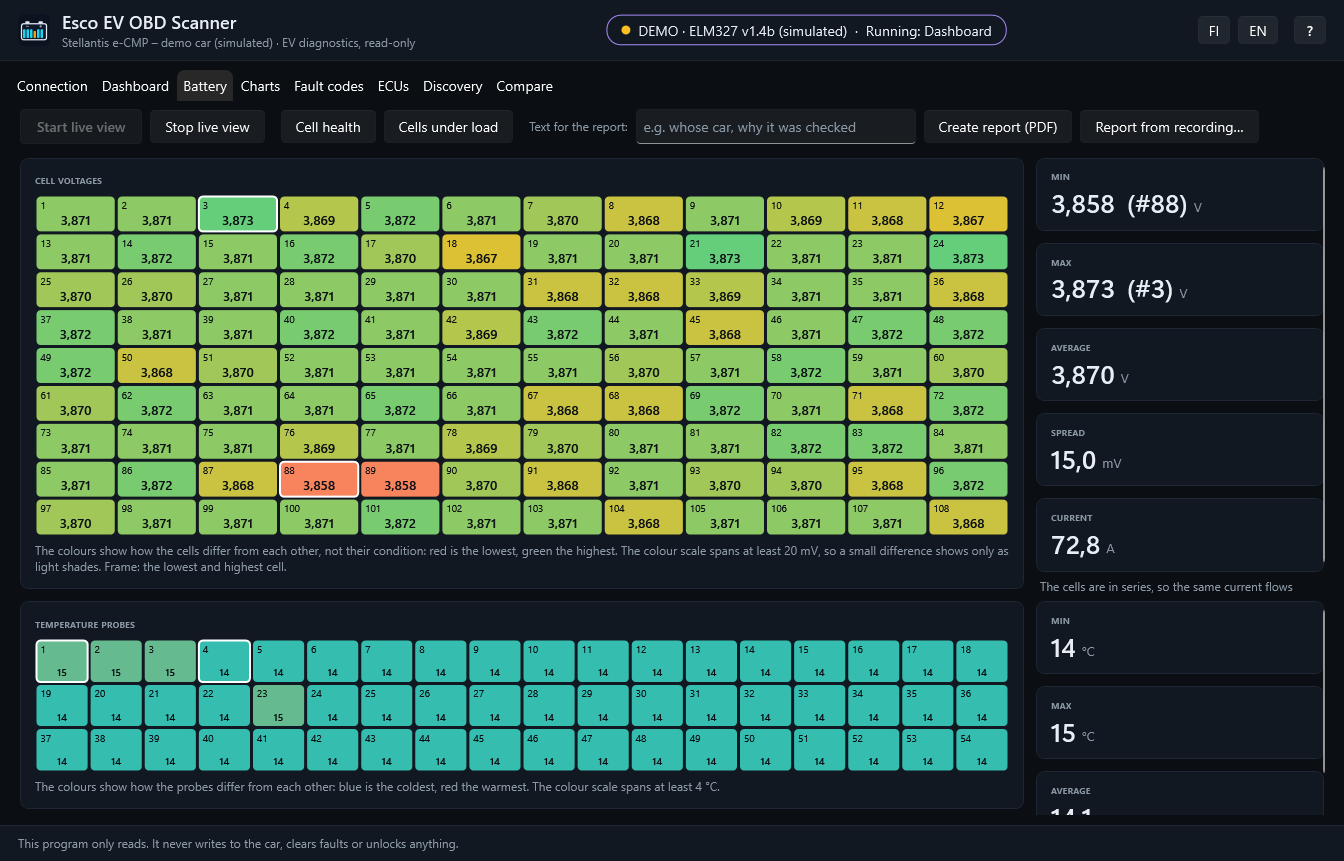
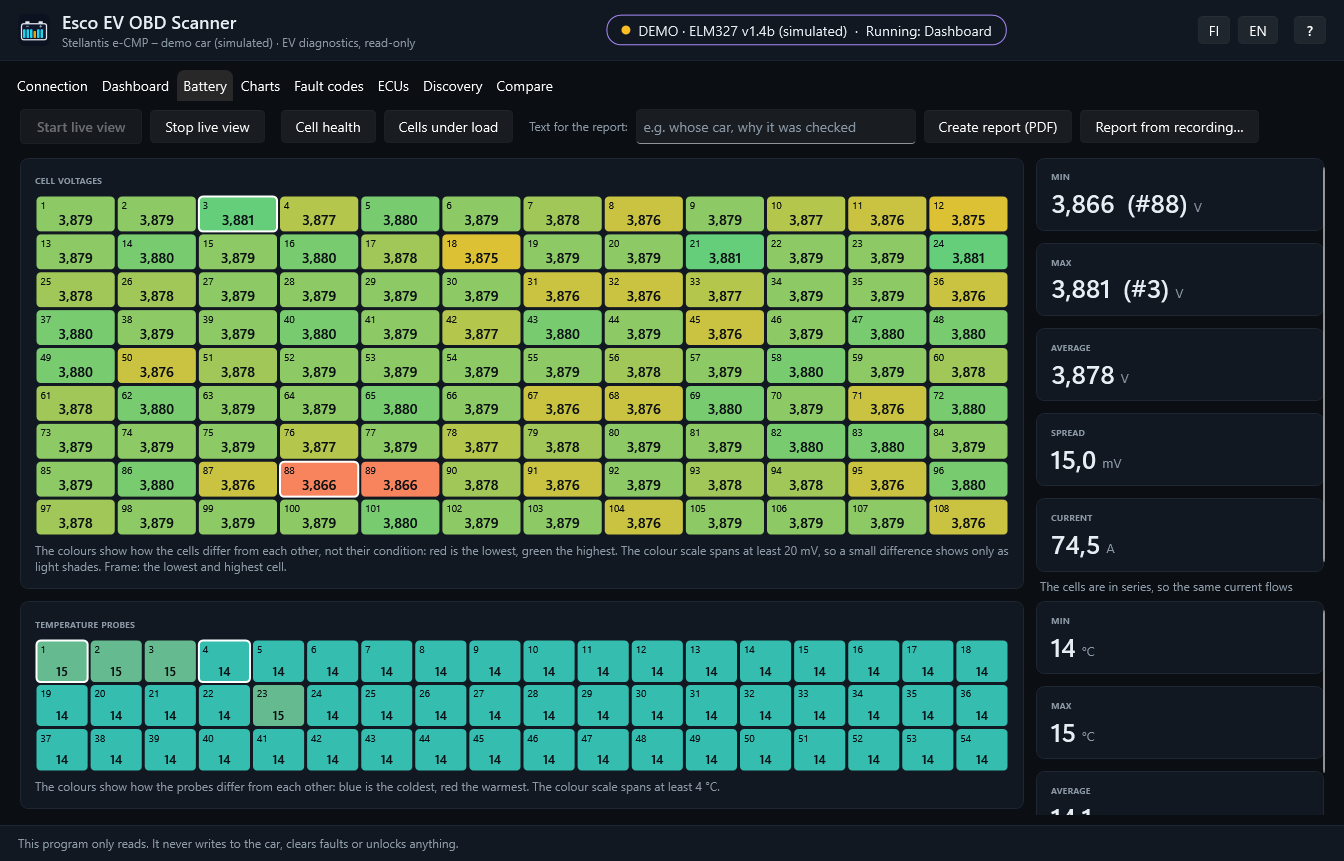
README: one dashboard screenshot, retaken battery screenshots
The dashboard now fits in one screenshot, so the second one of its
lower part is gone; the self-test fills in a price and a day taken into
use before taking it, so the electricity estimate shows figures.
The battery, cell health and cells under load screenshots are retaken
with the larger text of the cell grids.

diff --git a/EscoEvObdScanner.App/SelfTest.cs b/EscoEvObdScanner.App/SelfTest.cs
@@ -131,12 +131,13 @@ namespace EscoEvObdScanner.App
                 vm.Live.ShowCellHealth = true;
                 await Shot(2, "battery_health_en", 800);
                 vm.Live.ShowCellHealth = false;
-                await Shot(1, "dashboard_live_en", 800);
-                // the lower part with a price and a day taken into use, so the electricity estimate is filled in
+                // with a price and a day taken into use, so the electricity estimate is filled in
                 string shotPrice = vm.Live.PriceText, shotInUse = vm.Live.InUseText, shotInUseKm = vm.Live.InUseKmText;
                 vm.Live.PriceText = "16";
                 vm.Live.InUseText = "2024-12-04";
                 vm.Live.InUseKmText = "0";
+                await Shot(1, "dashboard_live_en", 800);
+                // the lower part
                 foreach (var sv in Descendants<ScrollViewer>(window).Where(s => s.IsVisible)) sv.ScrollToEnd();
                 await Shot(1, "dashboard_lower_en", 800);
                 foreach (var sv in Descendants<ScrollViewer>(window).Where(s => s.IsVisible)) sv.ScrollToHome();

diff --git a/README.md b/README.md
@@ -118,9 +118,7 @@ Even so:
 
 ## Using the app
 
-![The Dashboard tab during a drive (demo car)](assets/screenshots/dashboard.png)
-
-![The lower part of the Dashboard: the trip of this session, the car’s own lifetime counters and the electricity estimate at a given price (demo car)](assets/screenshots/dashboard-lifetime.png)
+![The Dashboard tab during a drive: gauges with their readings, the trip of this session, the car’s own lifetime counters and the electricity estimate at a given price (demo car)](assets/screenshots/dashboard.png)
 
 ![Cell voltages and temperature probes (demo car)](assets/screenshots/battery.png)
 
@@ -243,7 +241,7 @@ dotnet test --project EscoEvObdScanner.Tests          # unit + simulated-car tes
 `--selftest <folder>` drives the real UI against the demo car (connect, live
 view, every tab and action), saves a screenshot of each tab and writes
 `report.txt`. The screenshots in `assets/screenshots` are its `03_battery_health_en.png`,
-`03_battery_en.png`, `02_dashboard_live_en.png` and `02_dashboard_lower_en.png`, made in a folder whose path holds no user name;
+`03_battery_en.png` and `02_dashboard_live_en.png`, made in a folder whose path holds no user name;
 `cells-under-load.png` is the Battery tab's **Cells under load** view with a real drive of the author's car opened from **Open recording…**. It uses its own folders, never the user's results or settings.
 
 ## Car files
